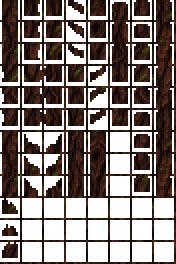
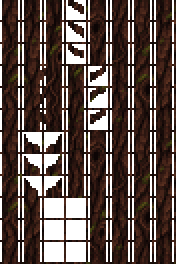
Fix grove tree trunk seams, foliage proportions and centered roots

diff --git a/Systems/GrovePreviewSystem.cs b/Systems/GrovePreviewSystem.cs
@@ -1,4 +1,5 @@
 using System;
+using System.Collections.Generic;
 using Microsoft.Xna.Framework;
 using IslandAdventure.Content.Tiles;
 using Terraria;
@@ -13,15 +14,15 @@ namespace IslandAdventure.Systems
     {
         public const int GalleryWidth = 176;
         public const int GalleryHeight = 72;
-        private const int CurrentPlantLayout = 5;
+        private const int CurrentPlantLayout = 6;
         public Rectangle Bounds { get; private set; }
         private Vector2 returnPosition;
         private bool canReturn, triedUpgrade;
         private string returnOwner;
-        private int plantLayout;
+        private int plantLayout,treeLayout;
         public override void OnWorldLoad()
         {
-            Bounds=Rectangle.Empty; canReturn=triedUpgrade=false; returnOwner=null; plantLayout=0;
+            Bounds=Rectangle.Empty; canReturn=triedUpgrade=false; returnOwner=null; plantLayout=treeLayout=0;
         }
         public override void PreWorldGen() => OnWorldLoad();
         public override void SaveWorldData(TagCompound tag)
@@ -29,7 +30,7 @@ namespace IslandAdventure.Systems
             if(Bounds.Width>0)
             {
                 tag["x"]=Bounds.X;tag["y"]=Bounds.Y;tag["w"]=Bounds.Width;tag["h"]=Bounds.Height;
-                tag["plantLayout"]=plantLayout;
+                tag["plantLayout"]=plantLayout;tag["treeLayout"]=treeLayout;
             }
             if(canReturn){tag["returnX"]=returnPosition.X;tag["returnY"]=returnPosition.Y;tag["owner"]=returnOwner;}
         }
@@ -38,7 +39,7 @@ namespace IslandAdventure.Systems
             int w=tag.GetInt("w"),h=tag.GetInt("h");
             if((w==56&&h==46)||(w==GalleryWidth&&h==GalleryHeight))
                 Bounds=new Rectangle(tag.GetInt("x"),tag.GetInt("y"),w,h);
-            plantLayout=tag.GetInt("plantLayout");
+            plantLayout=tag.GetInt("plantLayout");treeLayout=tag.GetInt("treeLayout");
             if(tag.ContainsKey("owner")&&float.IsFinite(tag.GetFloat("returnX"))&&float.IsFinite(tag.GetFloat("returnY")))
             {returnPosition=new Vector2(tag.GetFloat("returnX"),tag.GetFloat("returnY"));returnOwner=tag.GetString("owner");canReturn=true;}
         }
@@ -126,13 +127,19 @@ namespace IslandAdventure.Systems
         public bool RefreshPlants()
         {
             if(!Valid(Bounds)||Bounds.Width!=GalleryWidth)return false;
-            // Only our own decorations are replaced; player blocks and living trees survive.
+            // Only our decorations are refreshed. Sample trees are rebuilt once on upgrade;
+            // subsequent refreshes preserve them. Player blocks are never removed.
             for(int x=Bounds.Left;x<Bounds.Right;x++)for(int y=Bounds.Top;y<Bounds.Bottom;y++)
             {
                 var t=Main.tile[x,y];
                 if(t.HasTile&&TileLoader.GetTile(t.TileType) is GrovePlant)t.ClearTile();
             }
             int floor=Bounds.Bottom-4;
+            if(treeLayout<1)
+            {
+                foreach(int dx in new[]{17,43,164})RemoveSampleTree(Bounds.Left+dx,floor);
+                treeLayout=1;
+            }
             EnsureTree(Bounds.Left+17,floor); // Preserve the original preview's tree position.
             EnsureTree(Bounds.Left+43,floor);
             EnsureTree(Bounds.Left+164,floor);
@@ -166,8 +173,31 @@ namespace IslandAdventure.Systems
                 for(int y=floor-40;y<floor;y++)if(Main.tile[tx,y].HasTile)return;
             }
             for(int tx=x-2;tx<=x+2;tx++){var t=Main.tile[tx,floor];t.TileType=TileID.Grass;}
-            try{if(!WorldGen.GrowEpicTree(x,floor))WorldGen.GrowTree(x,floor);}
+            try
+            {
+                for(int attempt=0;attempt<32;attempt++)
+                {
+                    if(!WorldGen.GrowTree(x,floor))break;
+                    int top=floor-1;
+                    while(Main.tile[x,top-1].HasTile&&Main.tile[x,top-1].TileType==TileID.Trees)top--;
+                    if(floor-top>=10||attempt==31)break;
+                    RemoveSampleTree(x,floor);
+                }
+            }
             finally{for(int tx=x-2;tx<=x+2;tx++){var t=Main.tile[tx,floor];t.TileType=(ushort)ModContent.TileType<GroveGrass>();}}
+        }
+        private void RemoveSampleTree(int trunkX,int floor)
+        {
+            // Only a tree rooted at this gallery's exact sample point is rebuilt.
+            // Snapshot positions first: root lookup must see the intact native tree.
+            var cells=new List<Point>();
+            for(int x=trunkX-2;x<=trunkX+2;x++)for(int y=Bounds.Top;y<floor;y++)
+            {
+                var t=Main.tile[x,y];if(!t.HasTile||t.TileType!=TileID.Trees)continue;
+                WorldGen.GetTreeBottom(x,y,out int rootX,out int rootY);
+                if(rootX==trunkX&&rootY==floor)cells.Add(new Point(x,y));
+            }
+            foreach(var p in cells){var t=Main.tile[p.X,p.Y];t.ClearTile();}
         }
     }
 }

diff --git a/tools/render_grove_tree_preview.py b/tools/render_grove_tree_preview.py
@@ -1,0 +1,58 @@
+#!/usr/bin/env python3
+"""Assemble an exported native tree with ImageMagick; do not repaint its art.
+
+Uses TileDrawing's zero-wind 20px trunk, 40px branch and ModTree crown frames.
+This is a static join diagnostic, not a graphical-client screenshot.
+"""
+import json
+from pathlib import Path
+import subprocess
+import tempfile
+
+ROOT = Path(__file__).resolve().parents[1]
+ART = ROOT / "tools/art/grove"
+ASSETS = ROOT / "Assets/Grove"
+
+
+def render():
+    sample = json.loads((ART / "tree-preview-tiles.json").read_text())
+    tiles = sample["tiles"]
+    trunk = sample["trunkX"]
+    floor = sample["floor"]
+    crown_width, crown_height = 256, 192
+    top = min(t["y"] * 16 + 16 - crown_height for t in tiles
+              if t["fx"] == 22 and t["fy"] >= 198)
+    origin_x = trunk * 16 + 8 - 200
+    origin_y = top - 20
+    baseline = floor * 16 - origin_y
+    args = ["magick", "-size", f"400x{baseline + 24}", "xc:#6588ac"]
+    with tempfile.TemporaryDirectory() as folder:
+        def add(name, crop, x, y):
+            path = Path(folder) / f"piece-{len(args)}.png"
+            subprocess.run(["magick", str(ASSETS / f"{name}.png"),
+                            "-crop", crop, "+repage", str(path)], check=True)
+            args.extend([str(path), "-geometry",
+                         f"{x-origin_x:+d}{y-origin_y:+d}", "-composite"])
+
+        for tile in tiles:
+            add("Tree", f"20x20+{tile['fx']}+{tile['fy']}",
+                tile["x"] * 16 - 2, tile["y"] * 16)
+        for tile in tiles:
+            if tile["fy"] < 198:
+                continue
+            x, y = tile["x"] * 16, tile["y"] * 16
+            if tile["fx"] == 22:
+                add("Tree_Tops", f"{crown_width}x{crown_height}+0+0",
+                    x + 8 - crown_width // 2, y + 16 - crown_height)
+            elif tile["fx"] == 44:
+                add("Tree_Branches", "40x40+0+0", x - 24, y - 12)
+            elif tile["fx"] == 66:
+                add("Tree_Branches", "40x40+42+0", x, y - 12)
+        add("Tree_Roots", "96x32+0+0", trunk * 16 + 8 - 48,
+            floor * 16 - 32 + 6)
+        args.append(str(ART / "tree-frame-preview.png"))
+        subprocess.run(args, check=True)
+
+
+if __name__ == "__main__":
+    render()

diff --git a/Content/Tiles/GrovePlants.cs b/Content/Tiles/GrovePlants.cs
@@ -41,10 +41,11 @@ namespace IslandAdventure.Content.Tiles
                 batch.Draw(texture,point+new Vector2(x,top),new Rectangle(frame+x,0,1,height),light);
             }
             // A root fan follows the living tree; it occupies no extra collision tiles.
-            // Draw once at the leftmost base tile, including native flared tree bases.
-            if (Main.tile[i,j-1].HasTile && Main.tile[i,j-1].TileType == TileID.Trees
-                && !(Main.tile[i-1,j-1].HasTile && Main.tile[i-1,j-1].TileType == TileID.Trees))
+            // Draw once at the trunk center, rather than offsetting it to a flared side root.
+            if (Main.tile[i,j-1].HasTile && Main.tile[i,j-1].TileType == TileID.Trees)
             {
+                WorldGen.GetTreeBottom(i,j-1,out int rootX,out int rootY);
+                if(rootX!=i||rootY!=j)return;
                 var roots = ModContent.Request<Texture2D>("IslandAdventure/Assets/Grove/Tree_Roots", ReLogic.Content.AssetRequestMode.ImmediateLoad).Value;
                 batch.Draw(roots,point + new Vector2(8-roots.Width/2,-roots.Height+6),light);
             }

diff --git a/Content/Trees/GroveOak.cs b/Content/Trees/GroveOak.cs
@@ -15,7 +15,7 @@ namespace IslandAdventure.Content.Trees
         public override Asset<Texture2D> GetTopTextures() => ModContent.Request<Texture2D>("IslandAdventure/Assets/Grove/Tree_Tops");
         public override Asset<Texture2D> GetBranchTextures() => ModContent.Request<Texture2D>("IslandAdventure/Assets/Grove/Tree_Branches");
         public override void SetTreeFoliageSettings(int i,int j,Tile tile,int xoffset,ref int treeFrame,int floorY,ref int width,ref int height)
-        { treeFrame=0;width=192;height=128; }
+        { treeFrame=0;width=256;height=192; }
         public override int DropWood() => ItemID.Wood;
     }
 }

diff --git a/README.md b/README.md
@@ -621,7 +621,7 @@ PNG. Проверено, что сохранённые байты совпада
 RGB(35,180,30) даёт RGB(27,61,32), коры RGB(120,90,55) — RGB(40,24,13).
 C# сборка без предупреждений и ошибок; это не тест GPU/отрисовки.
 
-## Тестовый участок священной рощи — 0.4.4
+## Тестовый участок священной рощи — 0.4.5
 
 Расширенный набор для влажного древнего леса по мотивам «Принцессы Мононоке»:
 насыщенная зелень, холодные изумрудные тени, мох и тёмно-коричневая древесина.
@@ -641,10 +641,16 @@ C# сборка без предупреждений и ошибок; это не
 | Сломанный / полый поваленный ствол | 112×48 / 160×64 |
 | Камни: малый, средний, крупный | 32×16, 64×48, 96×64 |
 | Древний мшистый валун | 160×128 |
-| Крона живого дерева | 192×128 |
+| Крона живого дерева | 256×192 |
 
-Живые деревья используют родной ModTree: новая широкая крона, кора и листва
-ветвей; рубка и обычная древесина сохранены. Корни рисуются у основания
+Живые деревья используют родной ModTree. В 0.4.5 исправлены прозрачные вырезы
+в центральной части кадров ствола, боковые ветви получили собственный рисунок
+вместо маленькой повторяющейся лиственной маски. Крона стала объёмнее и выше.
+Образцы выращиваются обычным GrowTree высотой 10–16 тайлов вместо стволов
+GrowEpicTree по 20–29 тайлов. Старые три образца однократно перестраиваются
+только в точных точках тестовой площадки; остальные деревья и чужие блоки
+не трогаются. Повторное обновление уже исправленные деревья сохраняет.
+Рубка и обычная древесина сохранены. Корни рисуются по центру основания
 дерева без дополнительных коллизий и исчезают после рубки. Отдельные корни
 и поваленные стволы убираются топором, дают древесину. Камни и валун
 убираются киркой, дают обычный камень. Растения срезаются. Все декоративные
@@ -672,10 +678,16 @@ C# сборка без предупреждений и ошибок; это не
 ExampleMod под MIT, лицензия в `tools/art/grove/layouts/`; RGB новых рисунков свои.
 В пакете tModLoader исходные PNG могут автоматически стать rawimg.
 
-Проверка: C# собирается без ошибок/предупреждений. **837 утверждений** в загруженном
+Проверка: C# собирается без ошибок/предупреждений. **843 утверждения** в загруженном
 tModLoader проверяют 14 типов объектов, границы кадров, проходимость, материалы
 и инструменты, удаление валуна без оставшихся частей, повторное обновление,
 сохранение/возврат, расширение старого образца и безопасный выбор нового места
-при препятствии. Все 19 игровых PNG проверены на двоичную альфу и сетку 2×2.
+при препятствии. Непрерывность альфы ствола проверена во всех его центральных кадрах;
+крона и ветви отдельно проверены на правильные размеры. Все 19 игровых PNG проверены на двоичную альфу и сетку 2×2.
 Внешний вид в движении и стыки нужно оценить в графическом клиенте;
 headless-проверка игровые кадры не рисует.
+
+`tools/art/grove/tree-frame-preview.png` — статичная реконструкция дерева из
+реальных кадров, выгруженных tModLoader, с родными смещениями кроны и ветвей.
+Она воспроизводится `python3 tools/render_grove_tree_preview.py`. Это проверка
+стыков при нулевом ветре, а не скриншот графического клиента.

diff --git a/tools/art/grove/README.md b/tools/art/grove/README.md
@@ -2,8 +2,8 @@
 
 Sources: `lush-understory-source.png` (approved large shrub/fern),
 `foliage-source.png` (grass, small plants, moss and roots), `props-source.png`
-(fallen wood and four rock sizes), `tree-source.png` (canopy/bark).
-The canopy occupies the left 1448x724 region; bark is the right panel.
+(fallen wood and four rock sizes), `tree-source.png` (bark), `tree-foliage-source.png` (rounded crown/branches).
+Bark uses the right panel of tree-source. New foliage crops are recorded in the builder.
 Generated panel boundaries are recorded explicitly to avoid clipping props.
 
 Run `bash tools/build_grove_preview.sh` from the repository with ImageMagick 7.
@@ -15,11 +15,17 @@ Both low and tall grass use a narrow blade silhouette; all other silhouettes
 keep their natural aspect ratio. `ecosystem-preview.png` reconstructs the
 actual small sprites and enlarges them 2x, rather than showing source art.
 
-Tree atlas uses the MIT ExampleMod attachment masks in `layouts/`, newly
-rendered bark/leaf RGB, a single 192x128 canopy frame (2px trailing padding)
-and native 40x40 branch frames. `Tree_Roots.png` is unframed; `Roots.png` is
+Tree atlas starts from the MIT ExampleMod attachment masks in `layouts/`, newly
+rendered bark/leaf RGB, a single 256x192 canopy frame (2px trailing padding)
+and native 40x40 branch frames with independent leafy sprites. Trunk-core alpha
+is repaired to be continuous; side-only root/branch shapes stay separate. `Tree_Roots.png` is unframed; `Roots.png` is
 the same drawing split into an ordinary 6x2-tile decorative object.
 
 Live trees grow on custom turf, drop vanilla wood, and render in normal world
 lighting. Only the turf rim uses moss pixels; its dirt base uses vanilla Dirt.
 Large shrub and fern source/art were retained from 0.4.3.
+
+`tree-frame-preview.png` is a zero-wind native-frame reconstruction from the
+exported `tree-preview-tiles.json` fixture. Run
+`python3 tools/render_grove_tree_preview.py` to check complete-tree joins,
+rather than comparing source illustrations to in-game sprites.
